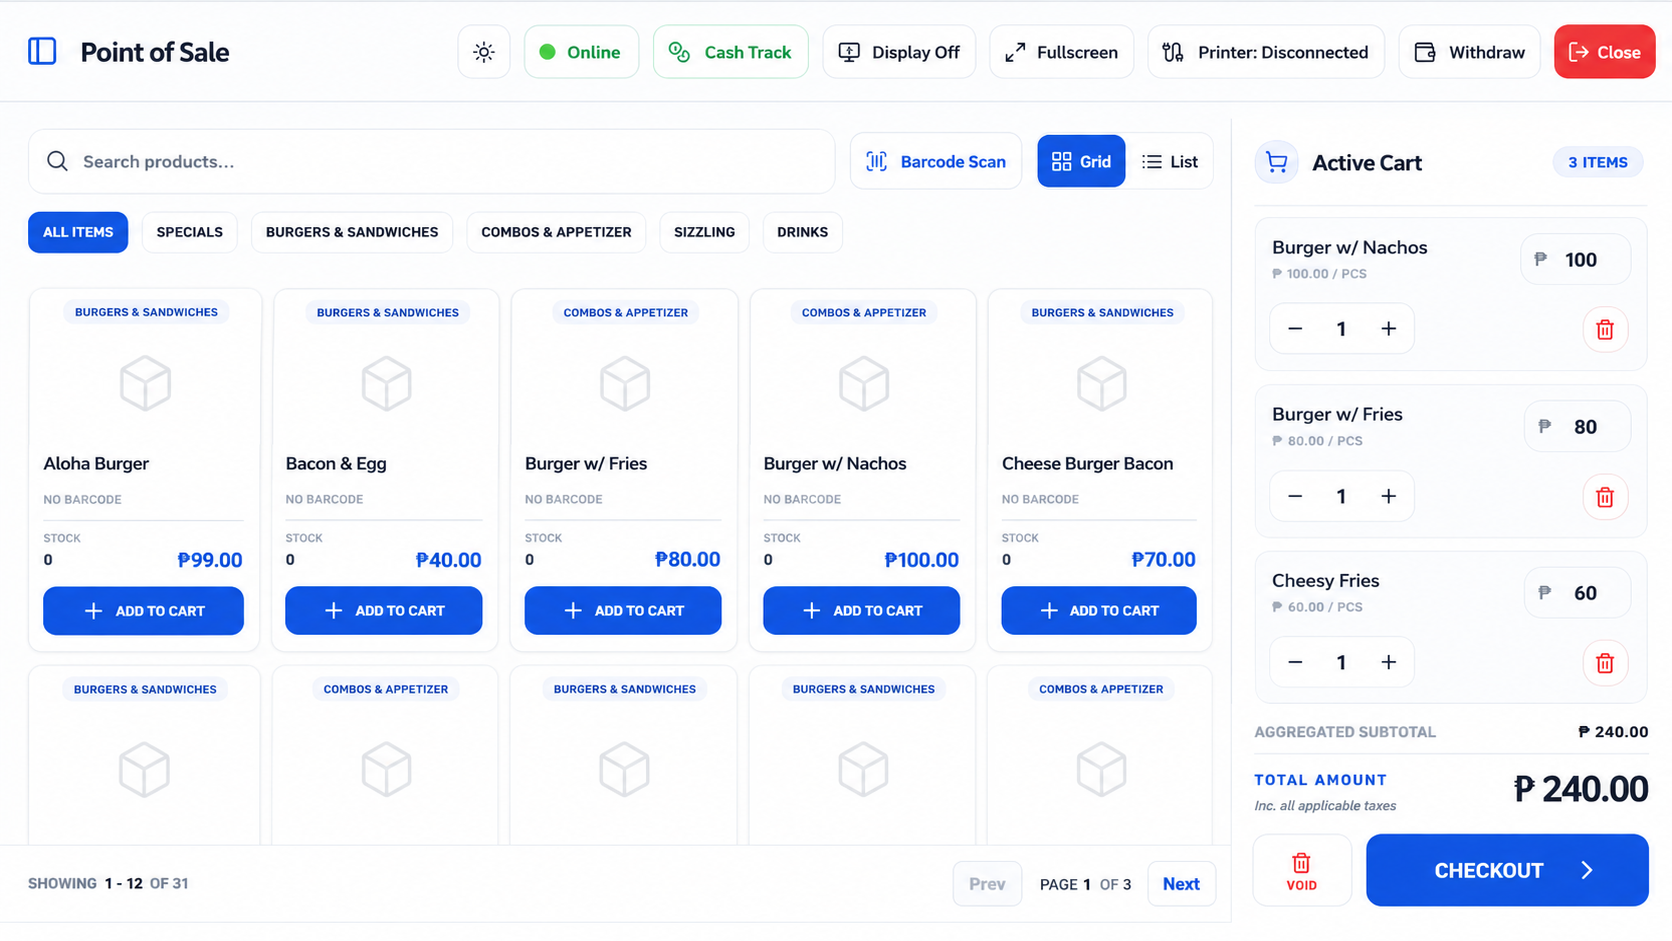
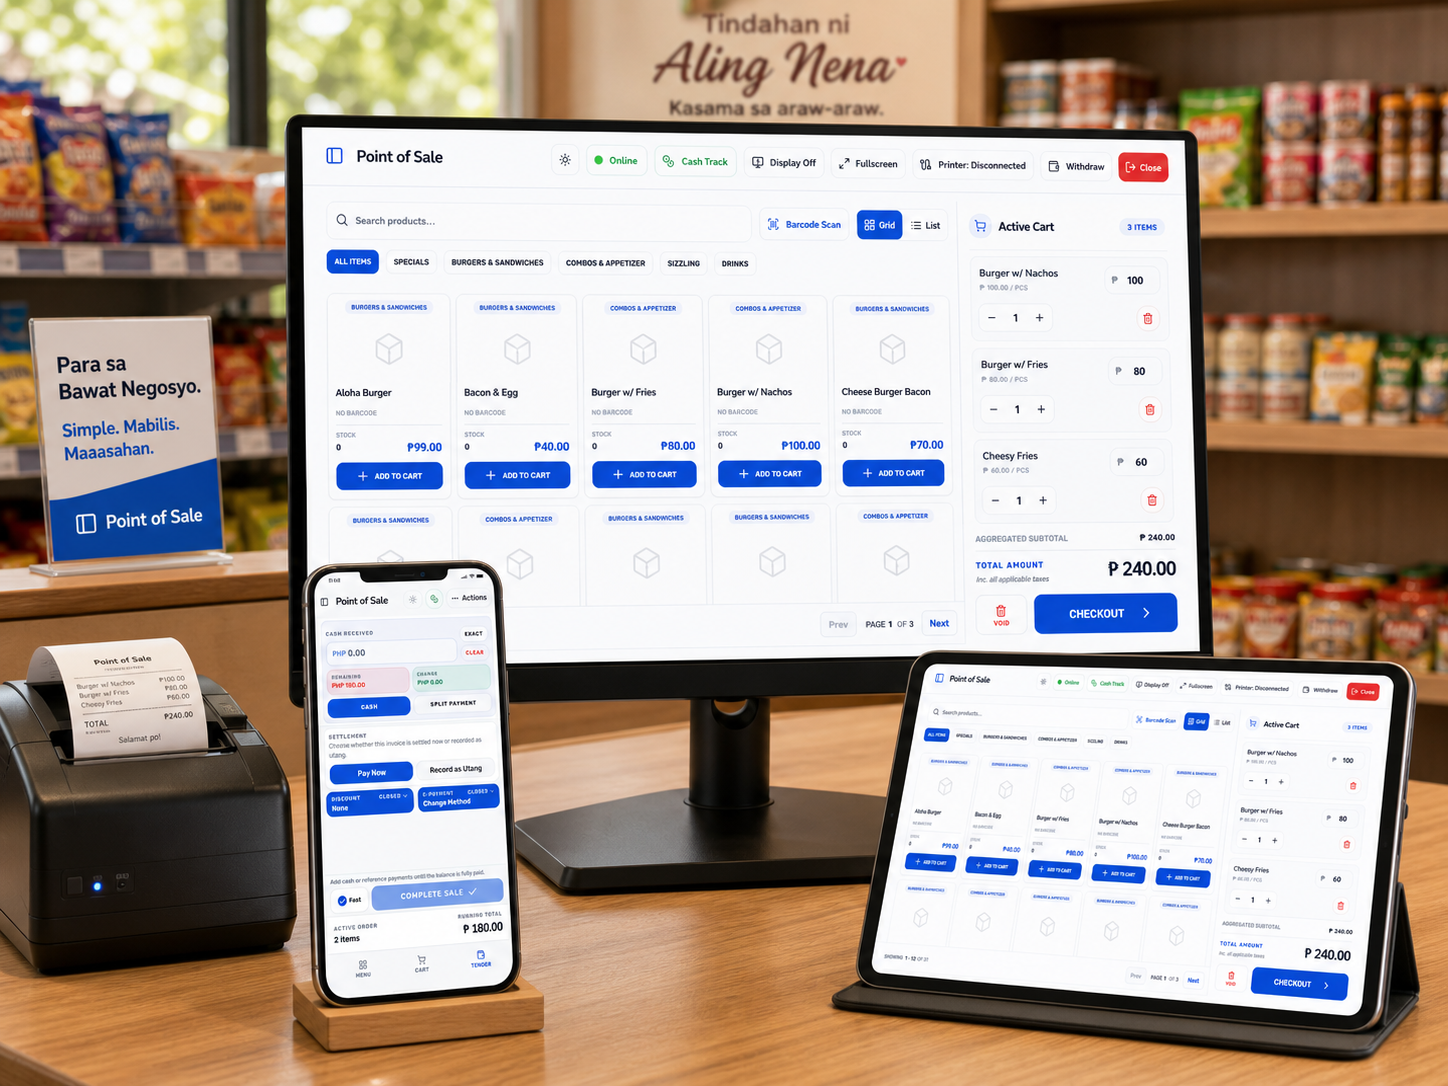
pwa

diff --git a/components/pwa-install-button.tsx b/components/pwa-install-button.tsx
@@ -29,6 +29,7 @@ type InstallState = {
   prompt: BeforeInstallPromptEvent | null;
   unsupportedReason: "ios" | "desktop" | "browser" | null;
   serviceWorkerReady: boolean;
+  serviceWorkerControlled: boolean;
   error: string | null;
 };
 
@@ -38,6 +39,7 @@ let installState: InstallState = {
   prompt: null,
   unsupportedReason: null,
   serviceWorkerReady: false,
+  serviceWorkerControlled: false,
   error: null,
 };
 
@@ -45,6 +47,25 @@ let isListening = false;
 let checkingTimer: number | null = null;
 let cleanupInstallListeners: (() => void) | null = null;
 const subscribers = new Set<() => void>();
+const installDebugEnabled = process.env.NODE_ENV !== "production";
+
+function debugInstall(message: string, details?: Record<string, unknown>) {
+  let isDebugEnabled = installDebugEnabled;
+  try {
+    isDebugEnabled =
+      isDebugEnabled ||
+      (typeof window !== "undefined" &&
+        window.localStorage.getItem("POSARD_PWA_DEBUG") === "1");
+  } catch {
+    isDebugEnabled = installDebugEnabled;
+  }
+
+  if (!isDebugEnabled) {
+    return;
+  }
+
+  console.info(`[POSard PWA] ${message}`, details ?? {});
+}
 
 function emitInstallState() {
   for (const subscriber of subscribers) {
@@ -83,12 +104,17 @@ function isIosBrowser() {
   return /iphone|ipad|ipod/i.test(window.navigator.userAgent);
 }
 
+function isDesktopChromiumBrowser() {
+  const userAgent = window.navigator.userAgent;
+  return !isIosBrowser() && /chrome|edg|opr|brave/i.test(userAgent);
+}
+
 function getUnsupportedReason(): InstallState["unsupportedReason"] {
   if (isIosBrowser()) {
     return "ios";
   }
 
-  if (/chrome|crios|edg|opr|brave/i.test(window.navigator.userAgent)) {
+  if (isDesktopChromiumBrowser()) {
     return "desktop";
   }
 
@@ -100,6 +126,9 @@ function finishCheckingIfNoPrompt() {
     return;
   }
 
+  debugInstall("beforeinstallprompt unavailable; showing fallback", {
+    reason: getUnsupportedReason(),
+  });
   setInstallState({
     status: "unsupported",
     unsupportedReason: getUnsupportedReason(),
@@ -113,17 +142,37 @@ function setupInstallListeners() {
 
   isListening = true;
   const installed = isStandaloneMode();
+  if (installed) {
+    debugInstall("installed display mode detected");
+  }
   setInstallState({
     isInstalled: installed,
     status: installed ? "installed" : "checking",
+    serviceWorkerControlled:
+      "serviceWorker" in navigator ? navigator.serviceWorker.controller !== null : false,
   });
 
   if ("serviceWorker" in navigator) {
     navigator.serviceWorker
       .register("/pos-sw.js", { scope: "/", updateViaCache: "none" })
-      .then(() => navigator.serviceWorker.ready)
-      .then(() => {
-        setInstallState({ serviceWorkerReady: true });
+      .then((registration) => {
+        debugInstall("service worker registered", {
+          scope: registration.scope,
+          controlled: navigator.serviceWorker.controller !== null,
+        });
+        registration.update().catch(() => undefined);
+        return navigator.serviceWorker.ready;
+      })
+      .then((registration) => {
+        debugInstall("service worker ready", {
+          scope: registration.scope,
+          active: registration.active?.state,
+          controlled: navigator.serviceWorker.controller !== null,
+        });
+        setInstallState({
+          serviceWorkerReady: true,
+          serviceWorkerControlled: navigator.serviceWorker.controller !== null,
+        });
       })
       .catch((error) => {
         console.warn("Unable to register POSard service worker", error);
@@ -143,6 +192,7 @@ function setupInstallListeners() {
 
   const handleBeforeInstallPrompt = (event: Event) => {
     event.preventDefault();
+    debugInstall("beforeinstallprompt fired");
     if (checkingTimer !== null) {
       window.clearTimeout(checkingTimer);
       checkingTimer = null;
@@ -157,6 +207,7 @@ function setupInstallListeners() {
   };
 
   const handleInstalled = () => {
+    debugInstall("appinstalled fired");
     setInstallState({
       isInstalled: true,
       status: "installed",
@@ -167,20 +218,41 @@ function setupInstallListeners() {
 
   const standaloneQuery = window.matchMedia("(display-mode: standalone)");
   const handleDisplayModeChange = () => {
-    setInstallState({ isInstalled: isStandaloneMode() });
+    const nextInstalled = isStandaloneMode();
+    if (nextInstalled) {
+      debugInstall("installed display mode detected");
+    }
+    setInstallState({
+      isInstalled: nextInstalled,
+      status: nextInstalled ? "installed" : installState.status,
+    });
+  };
+
+  const handleControllerChange = () => {
+    debugInstall("service worker controller changed", {
+      controlled: navigator.serviceWorker.controller !== null,
+    });
+    setInstallState({
+      serviceWorkerControlled: navigator.serviceWorker.controller !== null,
+    });
   };
 
   window.addEventListener("beforeinstallprompt", handleBeforeInstallPrompt);
   window.addEventListener("appinstalled", handleInstalled);
+  navigator.serviceWorker?.addEventListener("controllerchange", handleControllerChange);
   standaloneQuery.addEventListener("change", handleDisplayModeChange);
 
   // Some browsers never expose beforeinstallprompt. After a short check window,
   // show explicit browser instructions instead of pretending install is ready.
-  checkingTimer = window.setTimeout(finishCheckingIfNoPrompt, 1800);
+  checkingTimer = window.setTimeout(
+    finishCheckingIfNoPrompt,
+    isDesktopChromiumBrowser() ? 8000 : 1800,
+  );
 
   cleanupInstallListeners = () => {
     window.removeEventListener("beforeinstallprompt", handleBeforeInstallPrompt);
     window.removeEventListener("appinstalled", handleInstalled);
+    navigator.serviceWorker?.removeEventListener("controllerchange", handleControllerChange);
     standaloneQuery.removeEventListener("change", handleDisplayModeChange);
     if (checkingTimer !== null) {
       window.clearTimeout(checkingTimer);
@@ -217,15 +289,44 @@ export function usePwaInstall() {
     setInstallState({ status: "installing", error: null });
 
     try {
+      debugInstall("prompt shown");
       await state.prompt.prompt();
       const choice = await state.prompt.userChoice;
+      debugInstall("userChoice outcome", {
+        outcome: choice.outcome,
+        platform: choice.platform,
+      });
 
       setInstallState({
         prompt: null,
-        status: choice.outcome === "accepted" ? "installing" : "unsupported",
+        isInstalled: choice.outcome === "accepted" ? isStandaloneMode() : false,
+        status:
+          choice.outcome === "accepted"
+            ? isStandaloneMode()
+              ? "installed"
+              : "checking"
+            : "unsupported",
         unsupportedReason:
           choice.outcome === "accepted" ? null : getUnsupportedReason(),
       });
+
+      if (choice.outcome === "accepted") {
+        window.setTimeout(() => {
+          if (isStandaloneMode()) {
+            debugInstall("installed display mode detected");
+            setInstallState({ isInstalled: true, status: "installed" });
+            return;
+          }
+
+          if (installState.status === "checking") {
+            setInstallState({
+              status: "unsupported",
+              unsupportedReason: getUnsupportedReason(),
+              error: "The browser did not complete installation after accepting the prompt.",
+            });
+          }
+        }, 4000);
+      }
     } catch (error) {
       console.warn("POSard install prompt failed", error);
       setInstallState({
@@ -252,6 +353,7 @@ export function PwaInstallButton({
     status,
     unsupportedReason,
     serviceWorkerReady,
+    serviceWorkerControlled,
     error,
     install,
   } = usePwaInstall();
@@ -269,7 +371,7 @@ export function PwaInstallButton({
     }
 
     if (unsupportedReason === "desktop") {
-      return "If install is not offered, open the Chrome or Edge menu and choose Install POSard or Apps > Install this site.";
+      return "If install is not offered, make sure the site is open over HTTPS in Chrome or Edge, then use the browser menu and choose Install POSard or Apps > Install this site.";
     }
 
     return "This browser does not expose a direct install prompt. Use the browser menu if Add to Home Screen is available.";
@@ -325,10 +427,10 @@ export function PwaInstallButton({
         )}
         {buttonLabel}
       </Button>
-      {status === "available" && !serviceWorkerReady ? (
+      {status === "available" && (!serviceWorkerReady || !serviceWorkerControlled) ? (
         <p className="max-w-xs text-xs leading-5 text-muted-foreground">
           Install is available. The offline service worker is still becoming
-          ready.
+          ready for this tab.
         </p>
       ) : null}
       {showFallback && (fallbackVisible || status === "unsupported") ? (

diff --git a/app/manifest.ts b/app/manifest.ts
@@ -16,13 +16,19 @@ export default function manifest(): MetadataRoute.Manifest {
     categories: ["business", "productivity", "finance"],
     icons: [
       {
-        src: "/icon.png",
+        src: "/pwa-icon-192.png",
+        sizes: "192x192",
+        type: "image/png",
+        purpose: "any",
+      },
+      {
+        src: "/pwa-icon-512.png",
         sizes: "512x512",
         type: "image/png",
         purpose: "any",
       },
       {
-        src: "/icon.png",
+        src: "/pwa-icon-512.png",
         sizes: "512x512",
         type: "image/png",
         purpose: "maskable",

diff --git a/app/layout.tsx b/app/layout.tsx
@@ -57,7 +57,8 @@ export const metadata: Metadata = {
   icons: {
     icon: [
       { url: "/favicon.ico", sizes: "32x32" },
-      { url: "/icon.png", sizes: "512x512", type: "image/png" },
+      { url: "/pwa-icon-192.png", sizes: "192x192", type: "image/png" },
+      { url: "/pwa-icon-512.png", sizes: "512x512", type: "image/png" },
     ],
     apple: [{ url: "/apple-icon.png", sizes: "180x180", type: "image/png" }],
   },
